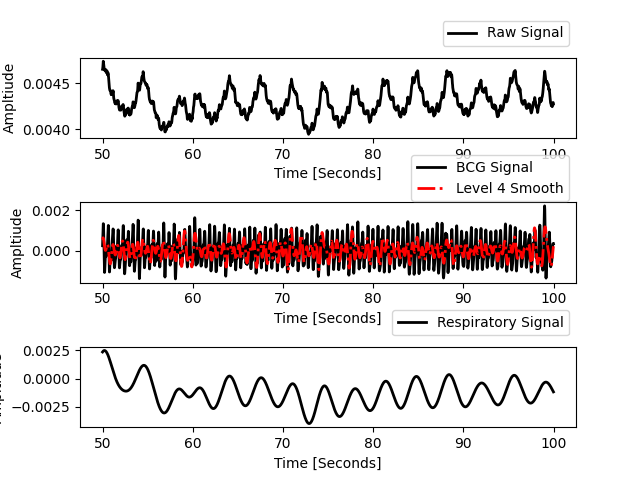
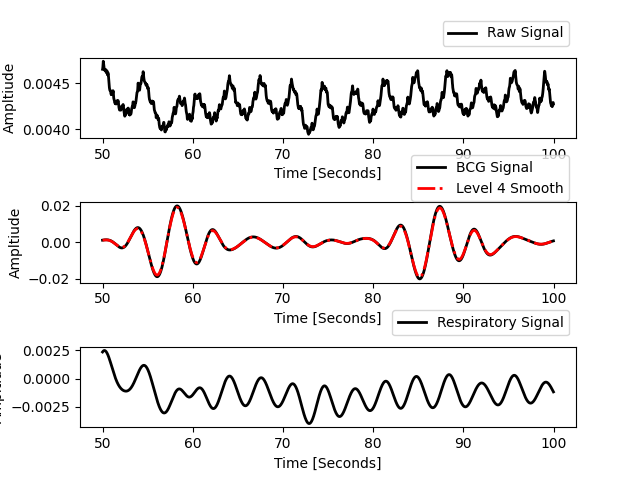
amannn

Changed region(s): [[0.1562, 0.4062, 0.875, 0.5938], [0.0, 0.4062, 0.125, 0.5938], [0.0625, 0.5625, 0.125, 0.5938]]

diff --git a/DATA ANALYTICS PROJECT/code/main.py b/DATA ANALYTICS PROJECT/code/main.py
@@ -4,70 +4,164 @@ import os
 
 import numpy as np
 import pandas as pd
-from scipy.signal import savgol_filter
+from scipy.signal import savgol_filter,resample
 import pyfftw
+import matplotlib.pyplot as plt
 from band_pass_filtering import band_pass_filtering
 from compute_vitals import vitals
 from detect_apnea_events import apnea_events
 from detect_body_movements import detect_patterns
+from detect_peaks import detect_peaks
 from modwt_matlab_fft import modwt
 from modwt_mra_matlab_fft import modwtmra
 from remove_nonLinear_trend import remove_nonLinear_trend
 from data_subplot import data_subplot
+from heartpy import process
+import neurokit2 as nk
 # ======================================================================================================================
 
 # Main program starts here
 print('\nstart processing ...')
 
-file = 'data\FileName_LC_BCG0.csv'
+file = 'DATA ANALYTICS PROJECT\data\sample_data.csv'
+file_name_newdata_BCG='DATA ANALYTICS PROJECT\data\FileName_LC_BCG3.csv'
+file_name_newdata_ECG="DATA ANALYTICS PROJECT\data\FileName_ECG.csv"
 
 if file.endswith(".csv"):
     fileName = os.path.join(file)
     if os.stat(fileName).st_size != 0:
         rawData = pd.read_csv(fileName, sep=",", header=None, skiprows=1).values
+
+        data_BCG=pd.read_csv(file_name_newdata_BCG)
+        data_ECG=pd.read_csv(file_name_newdata_ECG)
+
         utc_time = rawData[:, 0]
         data_stream = rawData[:, 1]
 
-        start_point, end_point, window_shift, fs = 0, 500, 500, 50
+
+
+        # start_point, end_point, window_shift, fs = 0, 500, 500, 50
         # ==========================================================================================================
-        data_stream, utc_time = detect_patterns(start_point, end_point, window_shift, data_stream, utc_time, plot=1)
+        # data_stream, utc_time = detect_patterns(start_point, end_point, window_shift, data_stream, utc_time, plot=1)
         # ==========================================================================================================
         # BCG signal extraction
-        movement = band_pass_filtering(data_stream, fs, "bcg")
-        # ==========================================================================================================
-        # Respiratory signal extraction
-        breathing = band_pass_filtering(data_stream, fs, "breath")
-        breathing = remove_nonLinear_trend(breathing, 3)
-        breathing = savgol_filter(breathing, 11, 3)
-        # ==========================================================================================================
-        w = modwt(movement, 'bior3.9', 4)
+        # movement = band_pass_filtering(data_stream, fs, "bcg")
+        # time=np.linspace(0,5000,5000,endpoint=False)
+
+        movement_BCG=data_BCG.values
+        print('------------------------------')
+        print("============ BCG DATA ===============")
+        print(movement_BCG)
+        
+        resampled_BCG = resample(movement_BCG,int(50/1000*len(movement_BCG)))
+        print("---------------------------------------------")
+        print("============ Resampled BCG DATA ===============")
+        print(resampled_BCG)
+        
+
+
+        movement_ECG=data_ECG.values
+        print('------------------------------')
+        print("============ ECG DATA ===============")
+        print(movement_ECG)
+        
+        resampled_ECG=resample(movement_ECG,int(50/1000*len(movement_ECG)))
+        print("---------------------------------------------")
+        print("============ Resampled ECG DATA ===============")
+        print(resampled_ECG)
+        
+
+        wd, m = process(resampled_ECG.flatten(), 50)
+        ECG_Heart_Rate=m["bpm"]
+        print("---------------------------------------------")
+        print("============ ECG HEART RATE ===============")
+        print(ECG_Heart_Rate)
+
+
+
+        w = modwt(resampled_BCG, 'bior3.9', 4)
         dc = modwtmra(w, 'bior3.9')
         wavelet_cycle = dc[4]
-        # ==========================================================================================================
-        # Vital Signs estimation - (10 seconds window is an optimal size for vital signs measurement)
+
         t1, t2, window_length, window_shift = 0, 500, 500, 500
-        hop_size = math.floor((window_length - 1) / 2)
-        limit = int(math.floor(breathing.size / window_shift))
-        # ==========================================================================================================
-        # Heart Rate
-        beats = vitals(t1, t2, window_shift, limit, wavelet_cycle, utc_time, mpd=1, plot=0)
+        sub_signal=wavelet_cycle[t1:t2]
+
+        def heart_rate(peaks):
+            diff_sample = peaks[-1] - peaks[0] + 1
+            t_N = diff_sample / 50
+            heartRate = (len(peaks) - 1) / t_N * 60
+            return heartRate
+        
+
+        def vitals(t1, t2, win_size, window_limit, sig):
+            all_rate = []
+            for j in range(0, window_limit):
+                sub_signal = sig[t1:t2]
+                indices=detect_peaks(sub_signal,mpd=1)
+                rate = heart_rate(indices)
+                all_rate.append(rate)
+                t1 = t2
+                t2 += win_size
+            all_rate = np.vstack(all_rate).flatten()
+            return all_rate
+        
+
+        
+        limit = int(math.floor(resampled_BCG.size / window_shift))
+
+        beats = vitals(t1, t2, window_shift, limit,   wavelet_cycle)
+        print("---------------------------------------------")
+        print("============ BCG HEART RATE ===============")
         print('\nHeart Rate Information')
         print('Minimum pulse : ', np.around(np.min(beats)))
         print('Maximum pulse : ', np.around(np.max(beats)))
         print('Average pulse : ', np.around(np.mean(beats)))
-        # Breathing Rate
-        beats = vitals(t1, t2, window_shift, limit, breathing, utc_time, mpd=1, plot=0)
-        print('\nRespiratory Rate Information')
-        print('Minimum breathing : ', np.around(np.min(beats)))
-        print('Maximum breathing : ', np.around(np.max(beats)))
-        print('Average breathing : ', np.around(np.mean(beats)))
-        # ==============================================================================================================
-        thresh = 0.3
-        events = apnea_events(breathing, utc_time, thresh=thresh)
-        # ==============================================================================================================
-        # Plot Vitals Example
-        t1, t2 = 2500, 2500 * 2
-        data_subplot(data_stream, movement, breathing, wavelet_cycle, t1, t2)
+        
+        
+
+        
+        
+        
+        # print(Heart_rate_BCG)
+        
+
+        
+
+        # movement_ECG=resample(movement_ECG,5000)
+        # ==========================================================================================================
+        # Respiratory signal extraction
+        # breathing = band_pass_filtering(data_stream, fs, "breath")
+        # breathing = remove_nonLinear_trend(breathing, 3)
+        # breathing = savgol_filter(breathing, 11, 3)
+        # # ==========================================================================================================
+        
+        # ==========================================================================================================
+        # # Vital Signs estimation - (10 seconds window is an optimal size for vital signs measurement)
+        # t1, t2, window_length, window_shift = 0, 500, 500, 500
+        # hop_size = math.floor((window_length - 1) / 2)
+        # limit = int(math.floor(breathing.size / window_shift))
+        # # ==========================================================================================================
+        # # Heart Rate
+        # beats = vitals(t1, t2, window_shift, limit, wavelet_cycle, utc_time, mpd=1, plot=0)
+        # print('\nHeart Rate Information')
+        # print('Minimum pulse : ', np.around(np.min(beats)))
+        # print('Maximum pulse : ', np.around(np.max(beats)))
+        # print('Average pulse : ', np.around(np.mean(beats)))
+        # # Breathing Rate
+        # beats = vitals(t1, t2, window_shift, limit, breathing, utc_time, mpd=1, plot=0)
+        # print('\nRespiratory Rate Information')
+        # print('Minimum breathing : ', np.around(np.min(beats)))
+        # print('Maximum breathing : ', np.around(np.max(beats)))
+        # print('Average breathing : ', np.around(np.mean(beats)))
+        # # ==============================================================================================================
+        # thresh = 0.3
+        # events = apnea_events(breathing, utc_time, thresh=thresh)
+        # # ==============================================================================================================
+        # # Plot Vitals Example
+        # t1, t2 = 2500, 2500 * 2
+        # data_subplot(data_stream, movement_BCG, breathing, wavelet_cycle, t1, t2)
+        
+
         # ==============================================================================================================
     print('\nEnd processing ...')
     # ==================================================================================================================

diff --git a/DATA ANALYTICS PROJECT/code/test.py b/DATA ANALYTICS PROJECT/code/test.py
@@ -1,0 +1,29 @@
+import matplotlib.pyplot as plt
+import pandas as pd
+import numpy as np
+from scipy.signal import savgol_filter,resample
+from detect_peaks import detect_peaks
+from beat_to_beat import compute_rate
+
+
+file_name_newdata_BCG='DATA ANALYTICS PROJECT\data\FileName_LC_BCG3.csv'
+file_name_newdata_ECG="DATA ANALYTICS PROJECT\data\FileName_ECG.csv"
+
+data_BCG=pd.read_csv(file_name_newdata_BCG)
+data_ECG=pd.read_csv(file_name_newdata_ECG)
+
+movement_BCG=data_BCG.values
+movement_ECG=data_ECG.values
+
+movement_BCG=resample(movement_BCG,int(50/1000*len(movement_BCG)))
+movement_ECG=resample(movement_BCG,int(50/1000*len(movement_ECG)))
+
+
+# movement=resample(movement,5000)
+# print(compute_rate(movement_BCG, 1))
+# time=np.linspace(0,5000,5000,endpoint=False)
+plt.figure("BCG")
+plt.plot(movement_BCG)
+plt.figure("ECG")
+plt.plot(movement_ECG)
+plt.show()

diff --git a/DATA ANALYTICS PROJECT/code/compute_vitals.py b/DATA ANALYTICS PROJECT/code/compute_vitals.py
@@ -4,17 +4,18 @@ Function to compute vitals, i.e., heart rate and respiration.
 """
 
 import numpy as np
-
+from detect_peaks import detect_peaks
 from beat_to_beat import compute_rate
 
 
-def vitals(t1, t2, win_size, window_limit, sig, time, mpd, plot=0):
+def vitals(t1, t2, win_size, window_limit, sig):
     all_rate = []
     for j in range(0, window_limit):
         sub_signal = sig[t1:t2]
-        [rate, indices] = compute_rate(sub_signal, time, mpd)
+        indices=detect_peaks(sub_signal,mpd=1)
+        rate = compute_rate(indices)
         all_rate.append(rate)
         t1 = t2
         t2 += win_size
-    all_rate = np.vstack(all_rate).flatten()
-    return all_rate
+        all_rate = np.vstack(all_rate).flatten()
+        return all_rate

diff --git a/DATA ANALYTICS PROJECT/code/beat_to_beat.py b/DATA ANALYTICS PROJECT/code/beat_to_beat.py
@@ -3,16 +3,10 @@ import numpy as np
 from detect_peaks import detect_peaks
 
 
-def compute_rate(beats, time, mpd):
+def compute_rate(peaks):
 
-    indices = detect_peaks(beats, mpd=mpd)
-
-    if len(indices) > 1:
-        peak_to_peak = []
-        for i in range(0, indices.size - 1):
-            peak_to_peak = np.append(peak_to_peak, time[indices[i + 1]] - time[indices[i]])
-        mean_heart_rate = np.average(peak_to_peak, axis=0)
-        bpm_avg = 1000 * (60 / mean_heart_rate)
-        return np.round(bpm_avg, decimals=2), indices
-    else:
-        return 0.0, 0.0
+    diff_sample = peaks[-1] - peaks[0] + 1
+    t_N = diff_sample / 50
+    heartRate = (len(peaks) - 1) / t_N * 60
+    return heartRate
+    

diff --git a/DATA ANALYTICS PROJECT/code/data_subplot.py b/DATA ANALYTICS PROJECT/code/data_subplot.py
@@ -12,9 +12,9 @@ def normalize(sig):
 
 def data_subplot(raw_data, movement, breathing, dc, t1, t2):
     raw_data = normalize(raw_data)
-    movement = normalize(movement)
+    # movement = normalize(movement)
     breathing = normalize(breathing)
-    dc = normalize(dc)
+    # dc = normalize(dc)
     steps = np.arange(t1, t2) / 50
 
     fig = plt.figure()
@@ -41,4 +41,4 @@ def data_subplot(raw_data, movement, breathing, dc, t1, t2):
     ax3.legend(bbox_to_anchor=(1, 1.3), loc='center right')
     plt.subplots_adjust(hspace=0.8)
     
-    plt.savefig('results/vitals.png')
+    plt.savefig('DATA ANALYTICS PROJECT/results/vitals.png')

diff --git a/DATA ANALYTICS PROJECT/code/detect_body_movements.py b/DATA ANALYTICS PROJECT/code/detect_body_movements.py
@@ -93,7 +93,7 @@ def detect_patterns(pt1, pt2, win_size, data, time, plot):
         pt1 = pt2
         pt2 += win_size
 
-    plt.savefig('results/rawData.png')
+    plt.savefig('DATA ANALYTICS PROJECT/results/rawData.png')
 
     # Remove Body Movements and bed-empty activities
     ind2remove = np.sort(np.append(np.where(event_flags == 3), np.where(event_flags == 2)), axis=None)
